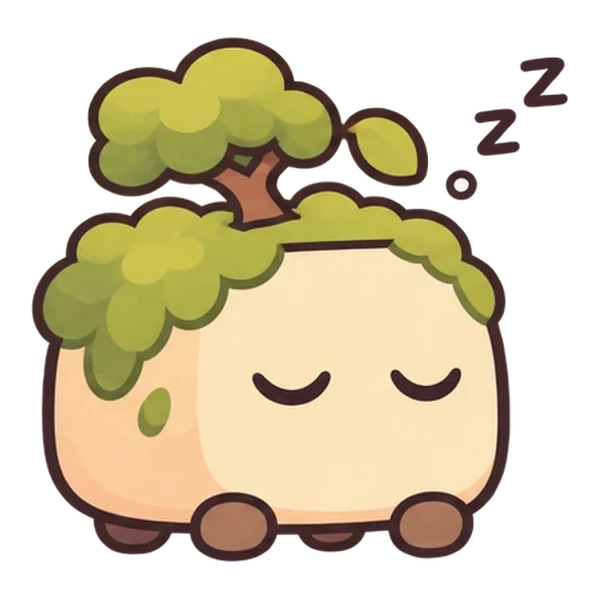
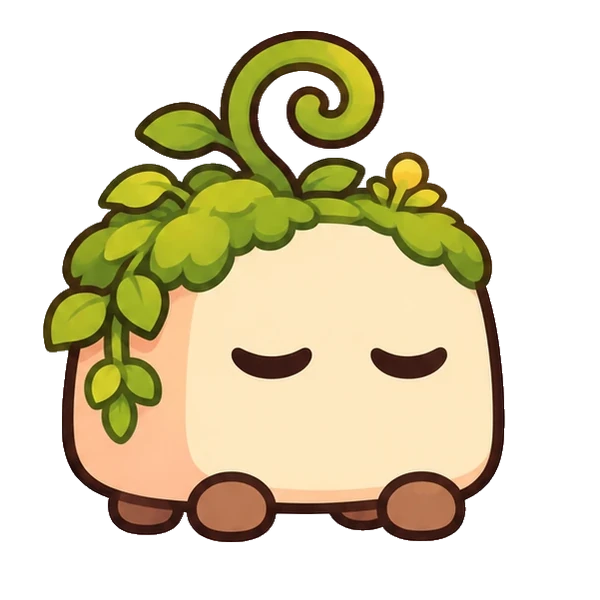
Tofu joven y adulto con cuerpo de bebé; brote cortado por cara y hojas que caen de adulto
Claude-Session: https://claude.ai/code/session_019izKFDyaFB4agFniHN4Ext

diff --git a/src/componentes/FiguraVecino.tsx b/src/componentes/FiguraVecino.tsx
@@ -8,7 +8,14 @@ import type { CompaneroId } from '../contenido'
 import { rutaCompanero, type Expresion } from '../arte/manifiesto'
 
 /** Altura (en % del dibujo) donde se separa la parte que se mueve sola (brote o engranaje), por etapa. */
-const CORTE: Partial<Record<CompaneroId, (number | null)[]>> = { tofu: [42, 44, 35], tuerca: [31, null, null] }
+const CORTE: Partial<Record<CompaneroId, (number | null)[]>> = { tuerca: [31, null, null] }
+/** Tofu: el brote nace a distinta altura en cada cara: [corte, eje x] por etapa y expresión. De adulto, la
+ *  copa está enredada con el musgo y no se separa: se queda quieto y, al tocarlo, se le caen unas hojas. */
+const BROTE: Partial<Record<Expresion, [number, number]>>[] = [
+  { base: [43, 58.3], contento: [41, 47.1], enfurrunado: [40.5, 60.2], dormido: [40, 46.1] },
+  { base: [42, 60], contento: [42, 48], enfurrunado: [34.5, 70.9], dormido: [34.5, 42.2] },
+  {},
+]
 /** Punto sobre el que gira esa parte (x, y en %): el brote, desde su base; el engranaje, desde su centro. */
 const EJE: Partial<Record<CompaneroId, [number, number][]>> = { tuerca: [[55.2, 20]] }
 /** Tuerca joven y adulto (dos engranajes y antena): en vez de girar, parpadea la luz de la antena. */
@@ -18,7 +25,8 @@ export function FiguraVecino({ c, etapa, expresion, reaccion, crecer }: {
   c: CompaneroId; etapa: 0 | 1 | 2; expresion: Expresion; reaccion: number; crecer: boolean
 }) {
   const src = rutaCompanero(c, etapa, expresion)
-  const corte = CORTE[c]?.[etapa]
+  const brote = c === 'tofu' ? BROTE[etapa][expresion] : undefined
+  const corte = brote ? brote[0] : CORTE[c]?.[etapa]
   const tocado = reaccion > 0
   const brotar = crecer ? 'anim-brotar' : ''
   const antena = c === 'tuerca' ? ANTENA[etapa] : null
@@ -32,6 +40,18 @@ export function FiguraVecino({ c, etapa, expresion, reaccion, crecer }: {
       </span>
     )
   }
+  if (c === 'tofu' && !corte) {
+    // Tofu adulto: inmóvil del todo. Al tocarlo, se le caen tres hojas y él ni se inmuta.
+    return (
+      <span key={reaccion} className={`relative block ${brotar}`}>
+        <img src={src} alt="" draggable={false} className="block w-full" />
+        {tocado && [0, 1, 2].map((i) => (
+          <span key={i} aria-hidden className="anim-hoja-cae absolute h-[7%] w-[5%] rounded-[50%_0] bg-[#8fae6b] shadow-[inset_0_0_0_1.5px_#4a6b32]"
+            style={{ left: `${32 + i * 17}%`, top: `${26 + (i % 2) * 4}%`, animationDelay: `${i * 0.18}s`, rotate: `${i * 50 - 30}deg` } as CSSProperties} />
+        ))}
+      </span>
+    )
+  }
   if (!corte) {
     // Nox (y quien no tenga gesto propio): respira; saltitos de impaciencia; al tocar, salto.
     return (
@@ -40,7 +60,7 @@ export function FiguraVecino({ c, etapa, expresion, reaccion, crecer }: {
       </span>
     )
   }
-  const eje = EJE[c]?.[etapa] ?? [50, corte]
+  const eje = brote ? [brote[1], corte] : EJE[c]?.[etapa] ?? [50, corte]
   const arriba: CSSProperties = { clipPath: `inset(0 0 ${100 - corte - 1}% 0)`, transformOrigin: `${eje[0]}% ${eje[1]}%` }
   const abajo: CSSProperties = { clipPath: `inset(${corte}% 0 0 0)` }
   const tofu = c === 'tofu'

diff --git a/src/estilos/index.css b/src/estilos/index.css
@@ -97,6 +97,8 @@ body {
 .anim-tic { animation: tic 6s linear infinite; }
 @keyframes respingo { 0% { transform: translateY(0) scale(1, 1); } 20% { transform: translateY(-8%) scale(0.96, 1.05); } 45% { transform: translateY(0) scale(1.04, 0.96); } 60% { transform: translateX(-2%); } 75% { transform: translateX(2%); } 100% { transform: none; } }
 .anim-respingo { animation: respingo 0.7s ease-out both; }
+@keyframes hoja-cae { 0% { transform: translate(0, 0) rotate(0); opacity: 0; } 10% { opacity: 1; } 100% { transform: translate(14px, 120px) rotate(160deg); opacity: 0; } }
+.anim-hoja-cae { animation: hoja-cae 1.6s ease-in both; }
 @keyframes antena { 0%, 80%, 100% { opacity: 0.2; transform: translate(-50%, -50%) scale(1); } 86% { opacity: 1; transform: translate(-50%, -50%) scale(1.6); } 92% { opacity: 0.3; } }
 .anim-antena { animation: antena 4s ease-in-out infinite; }
 @keyframes antena-prisa { 0%, 50%, 100% { opacity: 1; transform: translate(-50%, -50%) scale(1.7); } 25%, 75% { opacity: 0.2; transform: translate(-50%, -50%) scale(1); } }
@@ -161,7 +163,7 @@ body {
   .anim-nube { animation: aparecer 0.6s ease-out reverse both; }
   .animate-entrar, .animate-aparecer { animation: none; }
   .anim-mecer, .anim-temblar, .anim-inquieto, .anim-eclosionar { animation: none; }
-  .anim-antena, .anim-antena-prisa, .anim-impaciente, .anim-brote, .anim-brote-susto, .anim-engranaje, .anim-engranaje-prisa, .anim-tic, .anim-respingo, .anim-destello, .anim-latido, .anim-nuevo, .anim-respirar, .anim-saltar, .anim-luz, .anim-chispa, .anim-luciernaga, .anim-brotar, .anim-estallido, .anim-balanceo, .anim-hoja { animation: none; }
+  .anim-hoja-cae, .anim-antena, .anim-antena-prisa, .anim-impaciente, .anim-brote, .anim-brote-susto, .anim-engranaje, .anim-engranaje-prisa, .anim-tic, .anim-respingo, .anim-destello, .anim-latido, .anim-nuevo, .anim-respirar, .anim-saltar, .anim-luz, .anim-chispa, .anim-luciernaga, .anim-brotar, .anim-estallido, .anim-balanceo, .anim-hoja { animation: none; }
 }
 
 /* Zonas que se deslizan con el dedo sin enseñar barras (el mapa del bosque). */

diff --git a/src/contenido/casa.ts b/src/contenido/casa.ts
@@ -22,7 +22,7 @@ export const ESCENAS: Partial<Record<CompaneroId, Escena>> = {
     luces: [{ x: 18.6, y: 28.7 }, { x: 78, y: 21.5 }], luzPropia: { x: -0.28, y: 0.36, tam: 14, chispas: true } },
   tuerca: { proporcion: 941 / 1672, pies: { x: 50, y: 74 }, anchos: [38, 39.1, 37.6],
     luces: [{ x: 50, y: 18 }], luzPropia: { x: 0, y: 0.24, tam: 9 } },
-  tofu: { proporcion: 941 / 1672, pies: { x: 50, y: 73 }, anchos: [36, 36, 36],
+  tofu: { proporcion: 941 / 1672, pies: { x: 50, y: 73 }, anchos: [36, 34.9, 33.7],
     luces: [{ x: 16.5, y: 19 }, { x: 92, y: 34.5 }] },
 }
 

diff --git a/docs/diseno-vecindario.md b/docs/diseno-vecindario.md
@@ -287,4 +287,4 @@ Nada sale solo salvo las celebraciones (nacer, crecer, construir) y la reacción
 - **Cuestionario al empezar** (se puede saltar): edad por tramos, qué quieres mejorar (hasta 3), cómo es tu día y cuánto te mueves. Sugiere de 3 a 5 retos con la meta ajustada (`src/logica/sugerencias.ts`, reglas pendientes de revisión médica de Javi): pasos según actividad y edad, equilibrio a partir de 65, estirar si trabajas sentado, tiempo para ti si cuidas de alguien… Para menores: jugar fuera, deberes, ayudar en casa, dormir 9 horas, y el mensaje de elegir los retos con sus padres; el juego es el mismo.
 - **Las respuestas se cambian** desde Retos › Sugerencias o Ajustes › «Revisar y ver sugerencias», y se añaden las nuevas sugerencias con un toque.
 - **Retos propios:** se puede cambiar su área y borrarlos de verdad (con confirmación); los que quitaste o apuntaste en «Algo más» salen en «Otros retos tuyos» para volver a tu lista o borrarlos. Lo hecho sigue contando.
-- **Evolucionan sin crecer:** las tres etapas se ven del mismo tamaño (ancho de cada etapa ajustado para que el cuerpo mida igual que el del cachorro). Arte nuevo de ChatGPT con cuerpo de bebé: Nox y Tuerca ya integrados; Tofu, pendiente. Tuerca joven y adulto, con dos engranajes, no giran el engranaje: parpadea la luz de su antena.
+- **Evolucionan sin crecer:** las tres etapas se ven del mismo tamaño (ancho de cada etapa ajustado para que el cuerpo mida igual que el del cachorro). Arte nuevo de ChatGPT con cuerpo de bebé: Nox, Tuerca y Tofu integrados. Tuerca joven y adulto, con dos engranajes, no giran el engranaje: parpadea la luz de su antena. El brote de Tofu se corta por cara (nace a distinta altura en cada expresión); Tofu adulto, con la copa enredada en el musgo, se queda quieto y al tocarlo se le caen tres hojas.

diff --git a/docs/arte-encargos.md b/docs/arte-encargos.md
@@ -30,7 +30,7 @@
 | `public/arte/barrio/mapa.webp` | Mapa del barrio: 5 parcelas, plaza y arroyo |
 | `public/arte/curiosidades/*.webp` | 12 curiosidades del Álbum (piña, salchicha, zapatilla, tornillo, llave, tuerca con lazo, semilla, gafas, marcapáginas, cerilla, etiqueta, piedra-corazón) |
 | `public/arte/huellas/*.webp` | Huellas de las situaciones: cartel en blanco, cartel chamuscado, extintor, expediente, puente, libro chamuscado, archivador y lupa (el texto de los carteles lo pone la app) |
-| `public/arte/personajes/tofu/**`, `huevos/tofu/*`, `casitas/tofu.webp`, `casa/tofu/*` | Tofu: 3 etapas × 4 caras, huevo, casita, invernadero-biblioteca (941 × 1672) y sus 3 proyectos (pila de libros, pizarra, maceta) |
+| `public/arte/personajes/tofu/**`, `huevos/tofu/*`, `casitas/tofu.webp`, `casa/tofu/*` | Tofu: 3 etapas × 4 caras (joven y adulto rehechos el 19/11/2026 con cuerpo de bebé), huevo, casita, invernadero-biblioteca (941 × 1672) y sus 3 proyectos (pila de libros, pizarra, maceta) |
 | `public/arte/huevos/tuerca/*.webp` | Huevo de Tuerca |
 | `public/arte/casitas/nox.webp`, `tuerca.webp` | Casitas para el bosque |
 | `public/iconos/*.png` | Icono de la app (iPhone 180, Android 192/512, favicon 64). Esquinas rellenadas prolongando el fondo |
